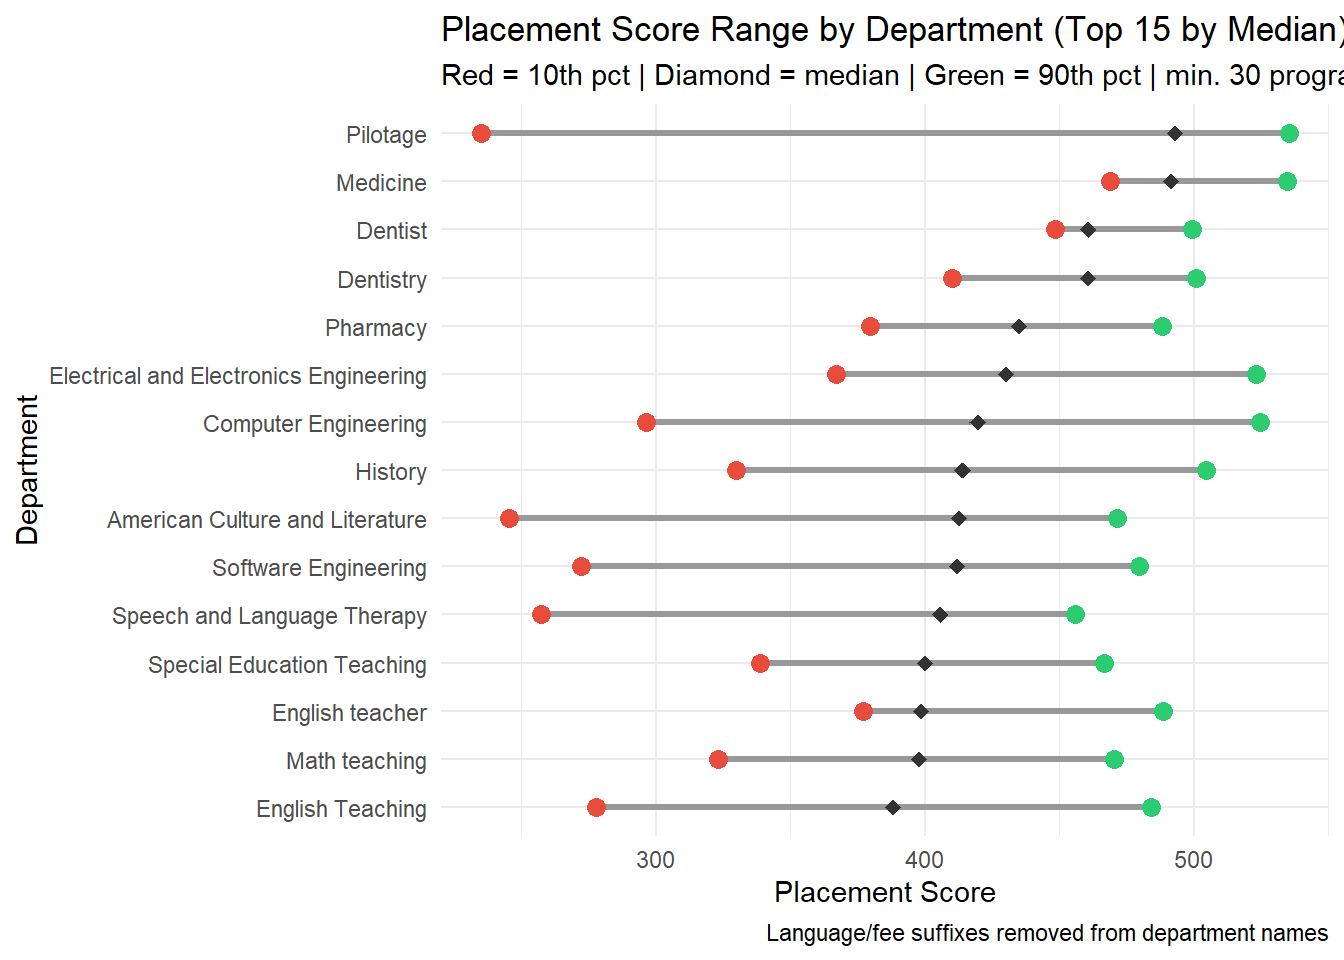
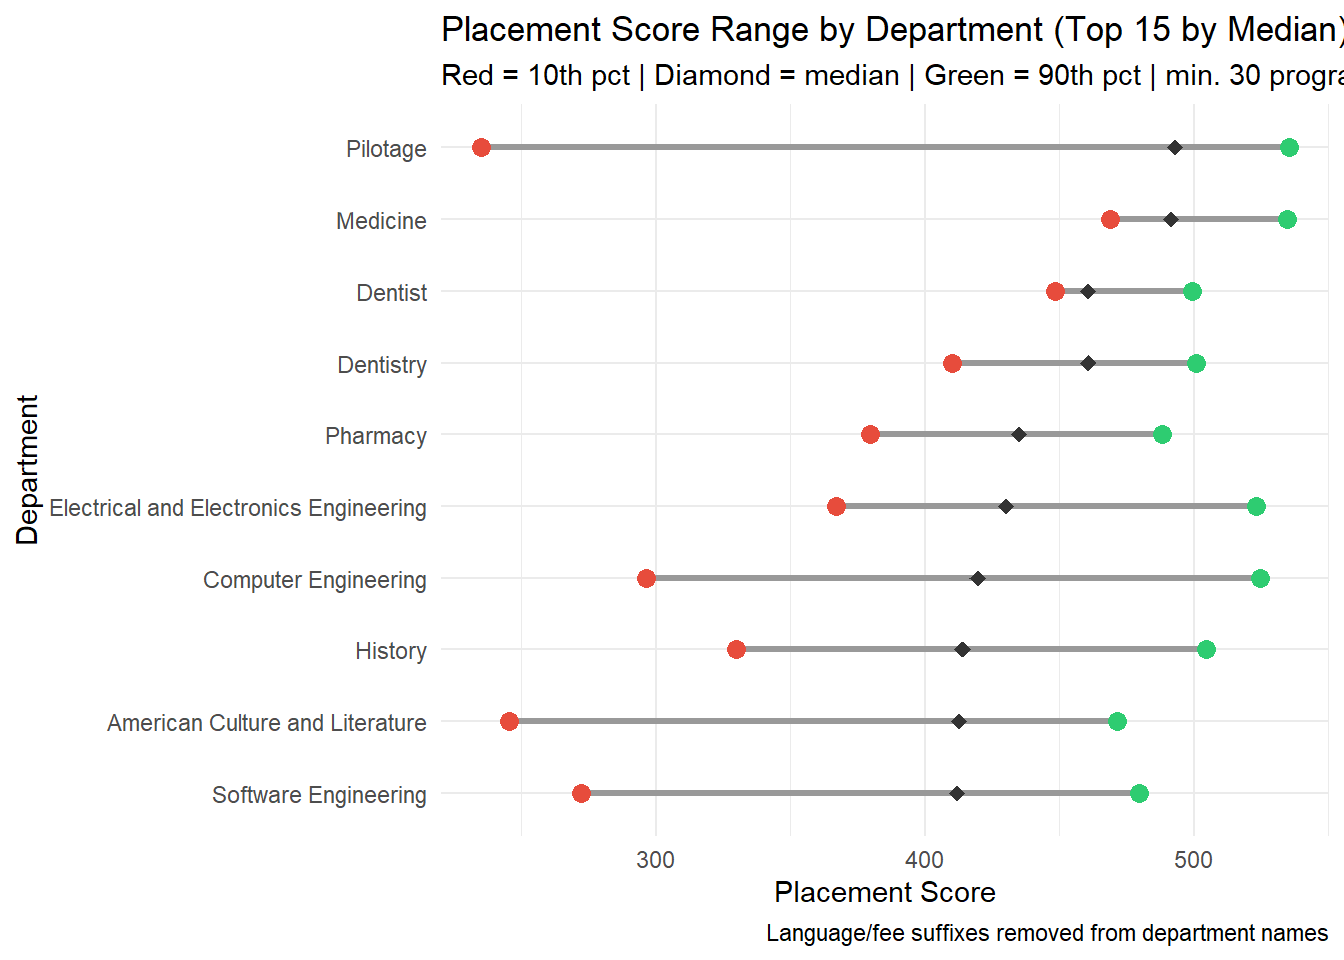
project2

diff --git a/docs/project.html b/docs/project.html
@@ -347,10 +347,7 @@ pre > code.sourceCode > span > a:first-child::before { text-decoration: underlin
   <li><a href="#reason-of-choice" id="toc-reason-of-choice" class="nav-link" data-scroll-target="#reason-of-choice">1.2 Reason of Choice</a></li>
   <li><a href="#preprocessing" id="toc-preprocessing" class="nav-link" data-scroll-target="#preprocessing">1.3 Preprocessing</a></li>
   </ul></li>
-  <li><a href="#analysis" id="toc-analysis" class="nav-link" data-scroll-target="#analysis">🧭Analysis</a>
-  <ul class="collapse">
-  <li><a href="#exploratory-data-analysis" id="toc-exploratory-data-analysis" class="nav-link" data-scroll-target="#exploratory-data-analysis">Exploratory Data Analysis</a></li>
-  </ul></li>
+  <li><a href="#analysis" id="toc-analysis" class="nav-link" data-scroll-target="#analysis">🧭Analysis</a></li>
   <li><a href="#university-distribution-and-regional-density" id="toc-university-distribution-and-regional-density" class="nav-link" data-scroll-target="#university-distribution-and-regional-density">1. University Distribution and Regional Density</a>
   <ul class="collapse">
   <li><a href="#number-of-universities-by-region" id="toc-number-of-universities-by-region" class="nav-link" data-scroll-target="#number-of-universities-by-region">1.1 Number of Universities by Region</a></li>
@@ -360,7 +357,7 @@ pre > code.sourceCode > span > a:first-child::before { text-decoration: underlin
   <li><a href="#department-level-score-analysis" id="toc-department-level-score-analysis" class="nav-link" data-scroll-target="#department-level-score-analysis">2. Department-Level Score Analysis</a>
   <ul class="collapse">
   <li><a href="#departments-with-highest-and-lowest-scores" id="toc-departments-with-highest-and-lowest-scores" class="nav-link" data-scroll-target="#departments-with-highest-and-lowest-scores">2.1 Departments with Highest and Lowest Scores</a></li>
-  <li><a href="#score-range-min-max-by-department-top-15" id="toc-score-range-min-max-by-department-top-15" class="nav-link" data-scroll-target="#score-range-min-max-by-department-top-15">2.2 Score Range (Min-Max) by Department (Top 15)</a></li>
+  <li><a href="#score-range-min-max-by-department-top-10" id="toc-score-range-min-max-by-department-top-10" class="nav-link" data-scroll-target="#score-range-min-max-by-department-top-10">2.2 Score Range (Min-Max) by Department (Top 10)</a></li>
   <li><a href="#engineering-departments-score-comparison-yokatlas" id="toc-engineering-departments-score-comparison-yokatlas" class="nav-link" data-scroll-target="#engineering-departments-score-comparison-yokatlas">2.3 Engineering Departments Score Comparison (YOKAtlas)</a></li>
   <li><a href="#industrial-engineering---university-ranking-lollipop" id="toc-industrial-engineering---university-ranking-lollipop" class="nav-link" data-scroll-target="#industrial-engineering---university-ranking-lollipop">2.4 Industrial Engineering - University Ranking (Lollipop)</a></li>
   </ul></li>
@@ -486,11 +483,9 @@ pre > code.sourceCode > span > a:first-child::before { text-decoration: underlin
 <li>University density by city,</li>
 <li>Student flows from regions to universities,</li>
 <li>Minimum and maximum entrance scores by department,</li>
-<li>The universities most frequently chosen as first preference,</li>
 <li>Gender distribution (female–male) by department within universities,</li>
 <li>Comparison of the number of academics in state and private universities,</li>
 <li>Yearly trends in placement scores and quotas,</li>
-<li>Most and least preferred departments by choice order etc.</li>
 </ul>
 </section>
 <section id="data" class="level1">
@@ -534,9 +529,6 @@ pre > code.sourceCode > span > a:first-child::before { text-decoration: underlin
 </section>
 <section id="analysis" class="level1">
 <h1>🧭Analysis</h1>
-<section id="exploratory-data-analysis" class="level2">
-<h2 class="anchored" data-anchor-id="exploratory-data-analysis">Exploratory Data Analysis</h2>
-</section>
 </section>
 <section id="university-distribution-and-regional-density" class="level1">
 <h1>1. University Distribution and Regional Density</h1>
@@ -747,14 +739,14 @@ pre > code.sourceCode > span > a:first-child::before { text-decoration: underlin
 <i class="callout-icon no-icon"></i>
 </div>
 <div class="callout-body-container">
-<p>The chart displays the top 10 highest and bottom 10 lowest-scoring departments based on median placement scores across all Turkish universities, with a minimum of 30 programs per department to ensure statistical reliability. Pilotage, Medicine, and Dentist/Dentistry dominate the high end, reflecting the highly competitive nature of health and aviation fields. Notably, Dentist and Dentistry appear separately due to minor naming inconsistencies in the dataset — they effectively represent the same field. On the lower end, departments such as Archaeology, Finance and Banking, and Philosophy show median scores around 220–236, indicating lower competition thresholds. The wide gap between high (~430–493) and low (~211–236) scoring departments highlights the stark selectivity differences across disciplines in Turkish higher education.</p>
+<p>The chart displays the top 10 highest and bottom 10 lowest-scoring departments based on median placement scores across all Turkish universities, with a minimum of 30 programs per department to ensure statistical reliability. Pilotage, Medicine, and Dentist/Dentistry dominate the high end, reflecting the highly competitive nature of health and aviation fields. Notably, Dentist and Dentistry appear separately due to minor naming inconsistencies in the dataset — they effectively represent the same field. On the lower end, departments such as Archaeology, Finance and Banking, and Philosophy show median scores around 220–236, indicating lower competition thresholds. Date (IO)” refers to the History department’s second-shift (evening) program, which consistently attracts lower placement scores due to its paid and part-time nature — distinct from the English-medium History program appearing in the high-scoring group. The wide gap between high (~430–493) and low (~211–236) scoring departments highlights the stark selectivity differences across disciplines in Turkish higher education.</p>
 </div>
 </div>
 </div>
 <hr>
 </section>
-<section id="score-range-min-max-by-department-top-15" class="level2">
-<h2 class="anchored" data-anchor-id="score-range-min-max-by-department-top-15">2.2 Score Range (Min-Max) by Department (Top 15)</h2>
+<section id="score-range-min-max-by-department-top-10" class="level2">
+<h2 class="anchored" data-anchor-id="score-range-min-max-by-department-top-10">2.2 Score Range (Min-Max) by Department (Top 10)</h2>
 <blockquote class="blockquote">
 <p><strong>Dataset:</strong> theStats | <strong>Year:</strong> All years (cumulative)</p>
 </blockquote>
@@ -796,7 +788,7 @@ pre > code.sourceCode > span > a:first-child::before { text-decoration: underlin
 <span id="cb5-33"><a href="#cb5-33" aria-hidden="true" tabindex="-1"></a>  ) <span class="sc">%&gt;%</span></span>
 <span id="cb5-34"><a href="#cb5-34" aria-hidden="true" tabindex="-1"></a>  <span class="fu">filter</span>(n_prog <span class="sc">&gt;=</span> <span class="dv">30</span>) <span class="sc">%&gt;%</span></span>
 <span id="cb5-35"><a href="#cb5-35" aria-hidden="true" tabindex="-1"></a>  <span class="fu">arrange</span>(<span class="fu">desc</span>(med_taban)) <span class="sc">%&gt;%</span></span>
-<span id="cb5-36"><a href="#cb5-36" aria-hidden="true" tabindex="-1"></a>  <span class="fu">slice</span>(<span class="dv">1</span><span class="sc">:</span><span class="dv">15</span>)</span>
+<span id="cb5-36"><a href="#cb5-36" aria-hidden="true" tabindex="-1"></a>  <span class="fu">slice</span>(<span class="dv">1</span><span class="sc">:</span><span class="dv">10</span>)</span>
 <span id="cb5-37"><a href="#cb5-37" aria-hidden="true" tabindex="-1"></a></span>
 <span id="cb5-38"><a href="#cb5-38" aria-hidden="true" tabindex="-1"></a>score_summary2 <span class="sc">%&gt;%</span></span>
 <span id="cb5-39"><a href="#cb5-39" aria-hidden="true" tabindex="-1"></a>  <span class="fu">ggplot</span>() <span class="sc">+</span></span>
@@ -831,7 +823,7 @@ pre > code.sourceCode > span > a:first-child::before { text-decoration: underlin
 <i class="callout-icon no-icon"></i>
 </div>
 <div class="callout-body-container">
-<p>This chart shows the realistic placement score spread for the top 15 departments by median score. Each line spans from the 10th percentile threshold score (red dot) to the 90th percentile ceiling score (green dot), with the diamond marking the median. Departments like Pilotage and Computer Engineering show wide ranges — meaning the same department varies dramatically in selectivity depending on the university. For example, Computer Engineering’s red dot sits near 290 while its green dot exceeds 530, a spread of over 240 points. In contrast, Medicine and Dentistry show narrower ranges, suggesting more uniform selectivity across institutions. These patterns confirm that institutional prestige is the primary driver of score variation within a given field.</p>
+<p>This chart shows the realistic placement score spread for the top 10 departments by median score. Each line spans from the 10th percentile threshold score (red dot) to the 90th percentile ceiling score (green dot), with the diamond marking the median. Departments like Pilotage and Computer Engineering show wide ranges — meaning the same department varies dramatically in selectivity depending on the university. For example, Computer Engineering’s red dot sits near 290 while its green dot exceeds 530, a spread of over 240 points. In contrast, Medicine and Dentistry show narrower ranges, suggesting more uniform selectivity across institutions. These patterns confirm that institutional prestige is the primary driver of score variation within a given field.</p>
 </div>
 </div>
 </div>
